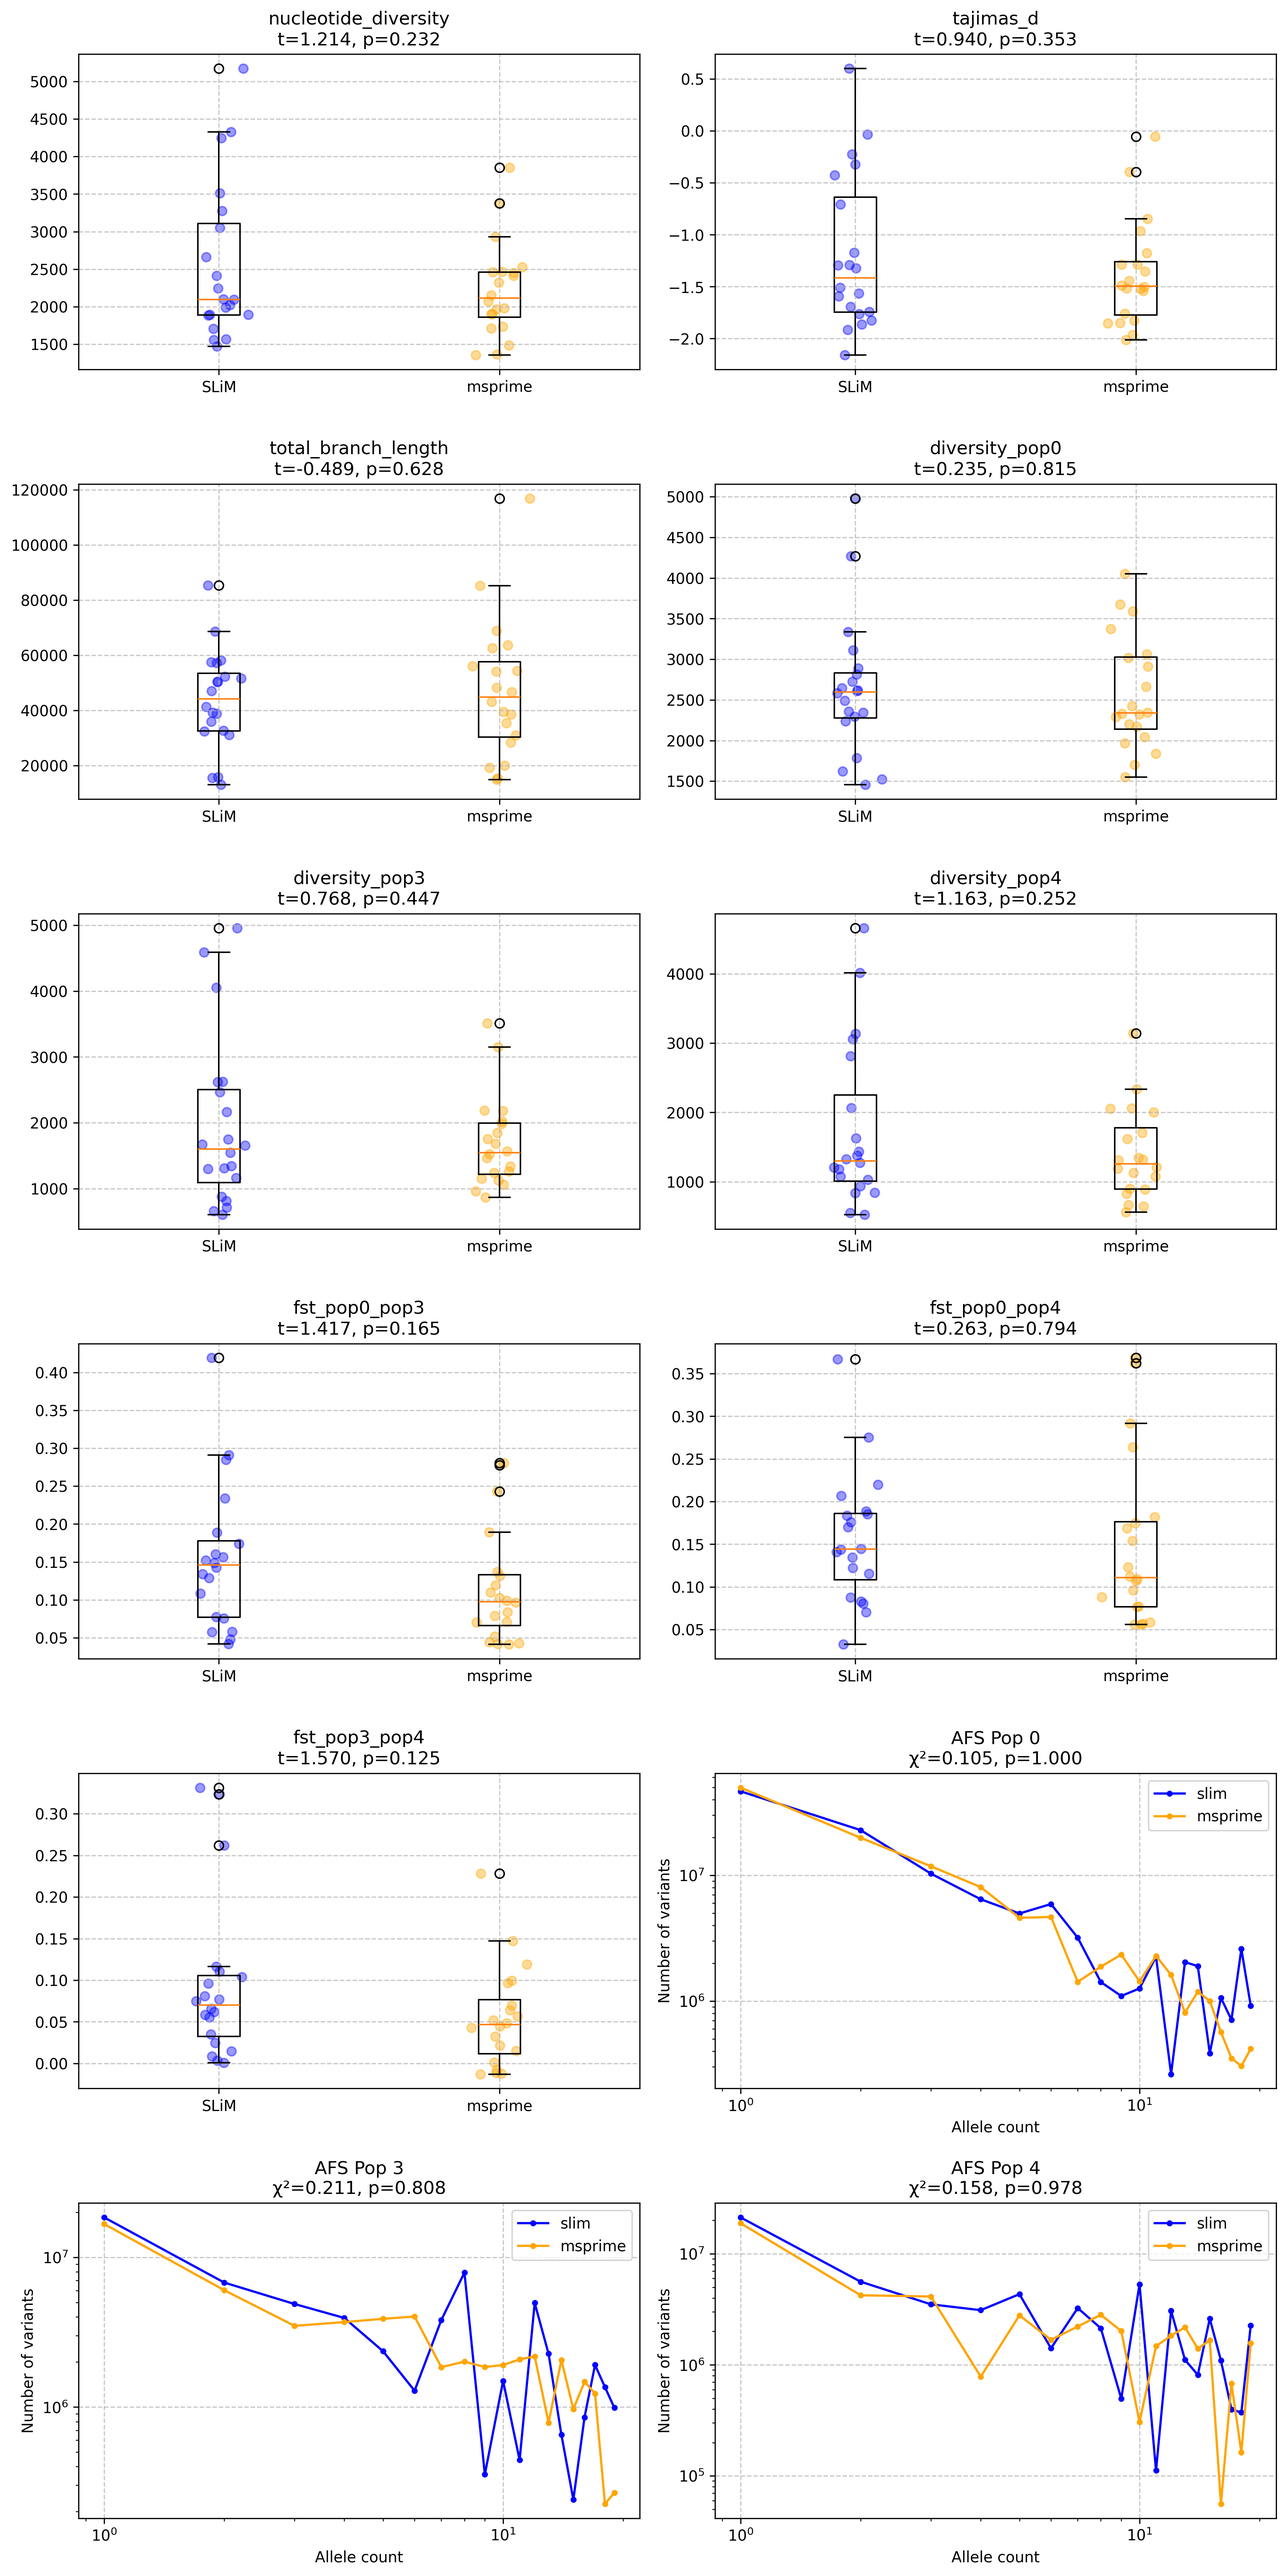
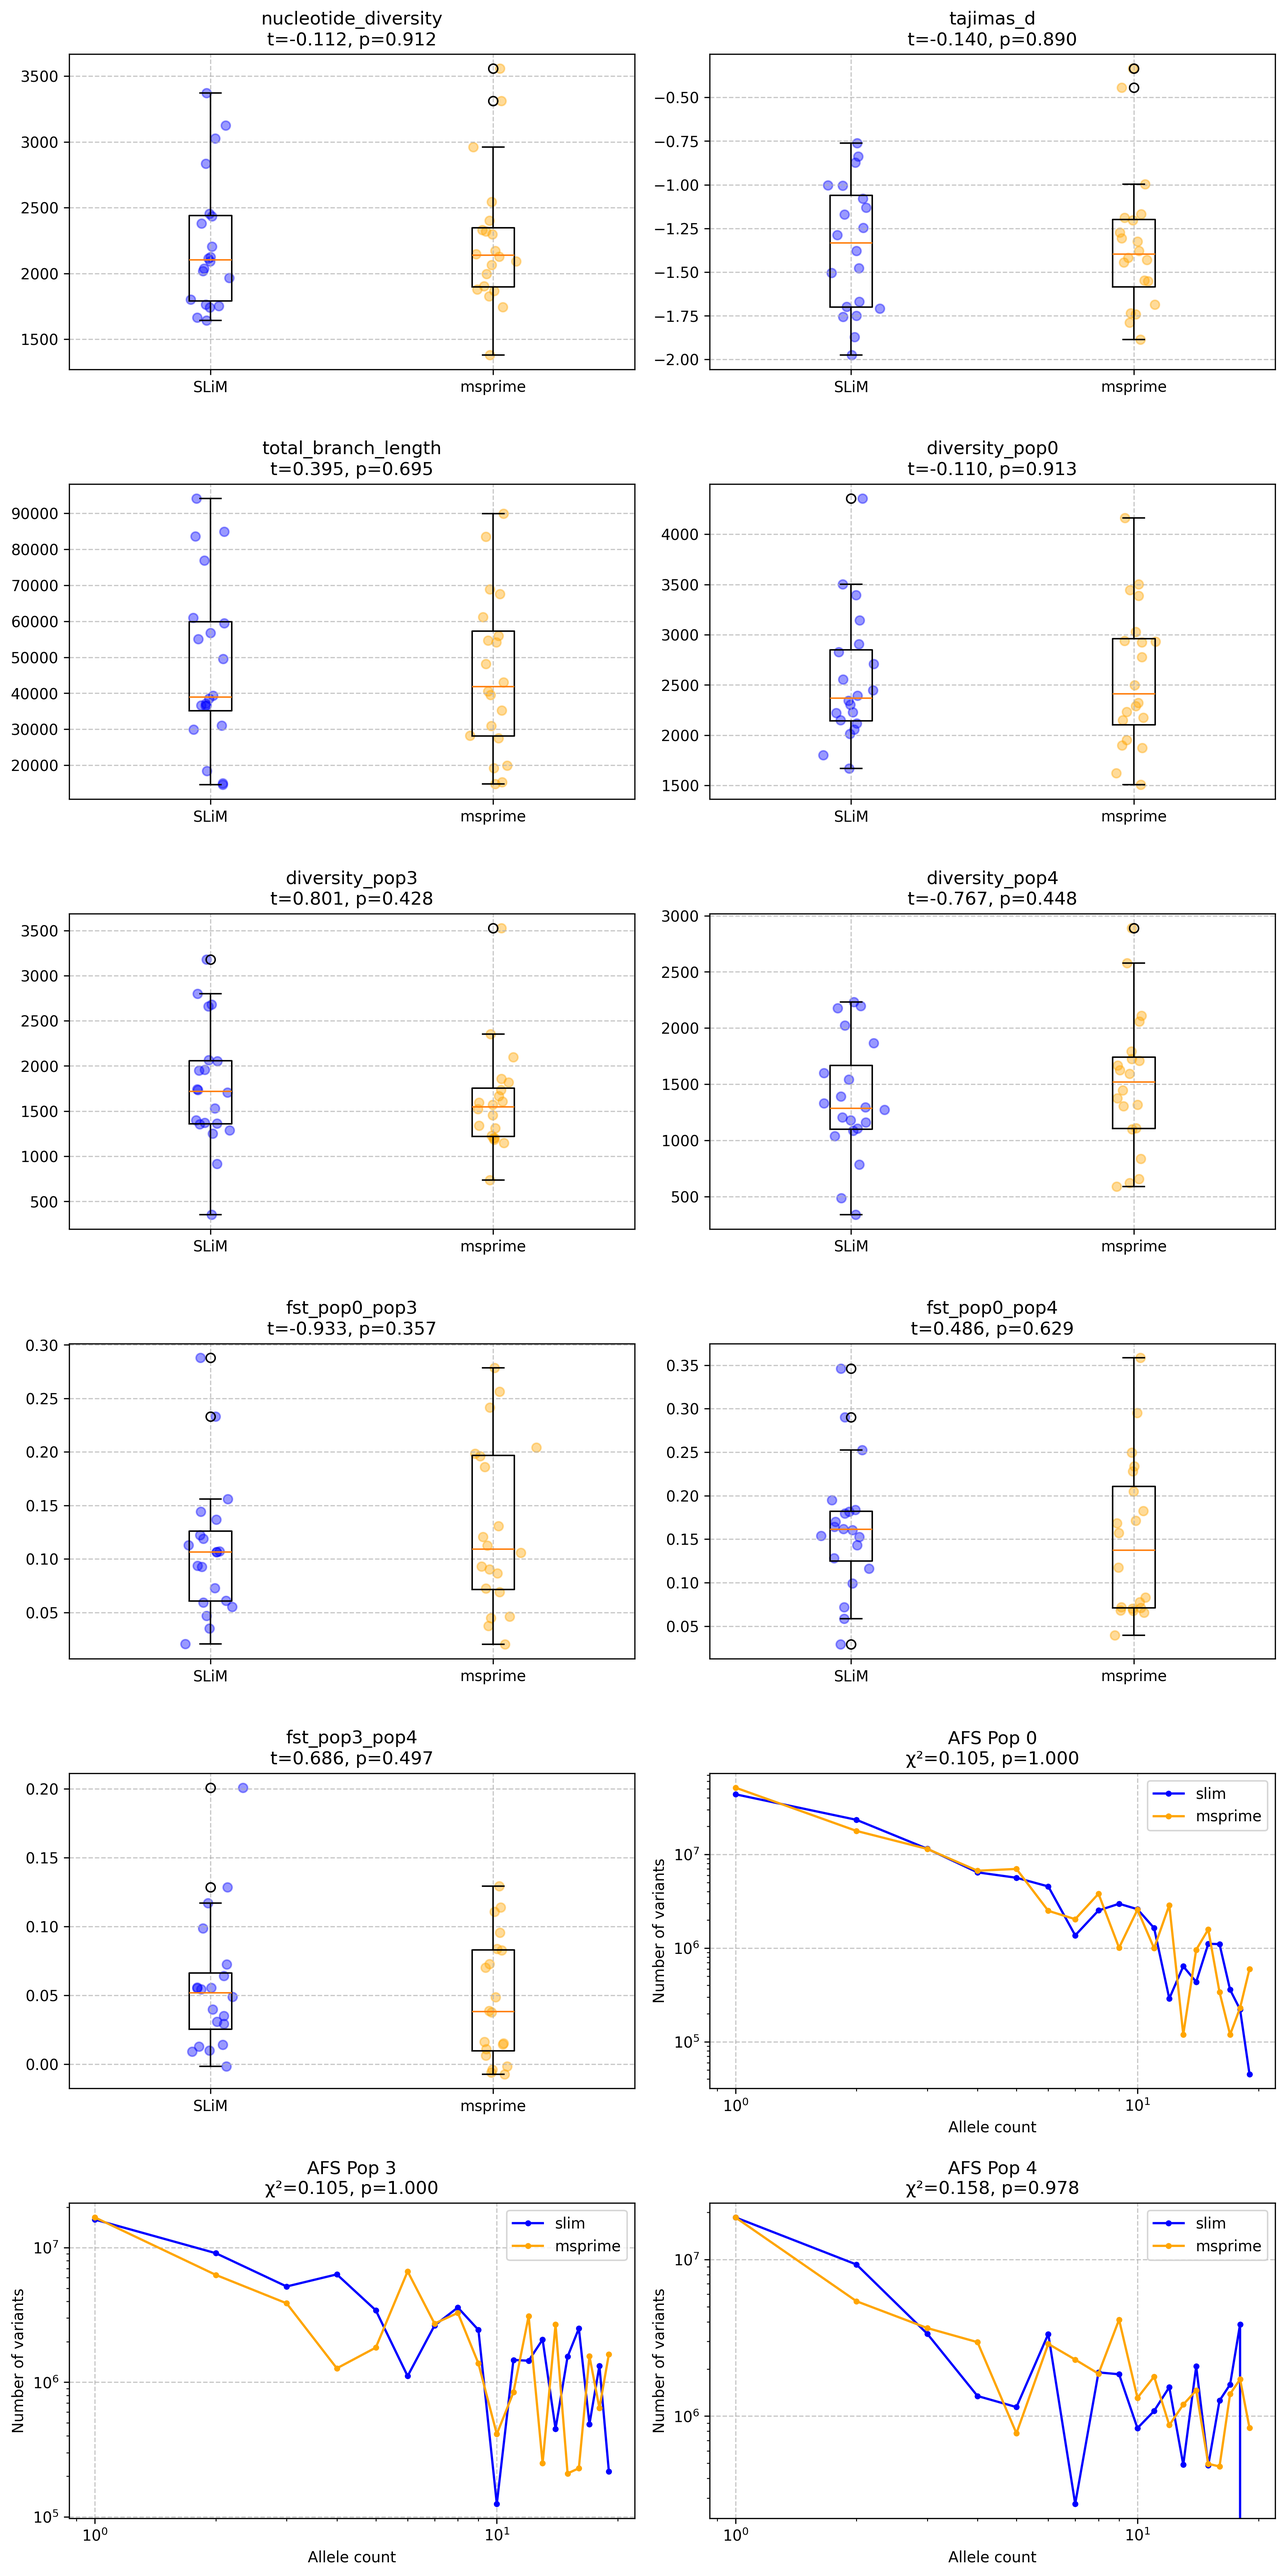
Fixed bug where Q inverse was used.

diff --git a/src/slimdemes/main.py b/src/slimdemes/main.py
@@ -35,13 +35,14 @@ def run_msprime(
     # Apply rescaling if specified
     if rescale_q is not None:
         assert rescale_q >= 1.0, "q in rescale_q must be >= 1.0"
-        graph = rescale_demes(graph, 1 / rescale_q)
+        graph = rescale_demes(graph, rescale_q)
 
     # Convert demes graph to msprime demography
     demography = msprime.Demography.from_demes(graph)
 
     # Set up sampling
-    num_samples = {deme.name: num_samples for deme in graph.demes if deme.end_time == 0}
+    num_samples = {
+        deme.name: num_samples for deme in graph.demes if deme.end_time == 0}
 
     samples = []
     for deme_name, n in num_samples.items():
@@ -91,7 +92,7 @@ def convert(
     if rescale_q is not None:
         rescale_q = float(rescale_q)
         assert rescale_q >= 1.0, "q in --rescale-q must be >= 1.0"
-        graph = rescale_demes(graph, 1 / rescale_q)
+        graph = rescale_demes(graph, rescale_q)
 
     data = graph.asdict()
 

diff --git a/src/slimdemes/utilities.py b/src/slimdemes/utilities.py
@@ -1,6 +1,7 @@
 import random
 import pyslim
 from collections import defaultdict
+from warnings import warn
 
 
 def safe_float(value):
@@ -46,10 +47,12 @@ def subsample_by_population(ts, num_samples, seed=None):
     sampled_ids = []
     for pop, ind_ids in grouped_by_pop.items():
         if len(ind_ids) < num_samples:
-            raise ValueError(
-                f"Population {pop} has fewer individuals ({len(ind_ids)}) than requested samples ({num_samples})"
+            warn(
+                f"Population {pop} has fewer individuals ({len(ind_ids)}) "
+                f"than requested samples ({num_samples}): {ind_ids}"
             )
-        sampled_ids.extend(random.sample(ind_ids, num_samples))
+        sampled_ids.extend(random.sample(
+            ind_ids, min(num_samples, len(ind_ids))))
 
     return sampled_ids
 
